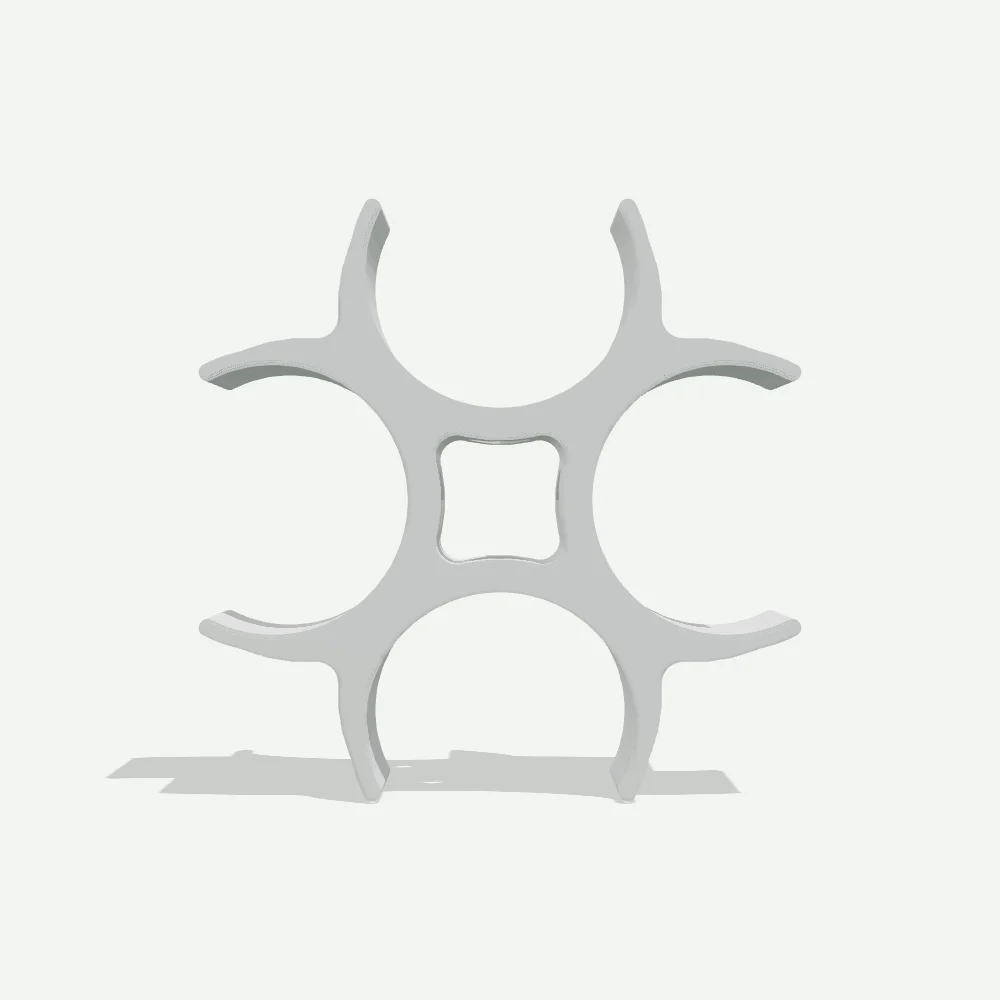
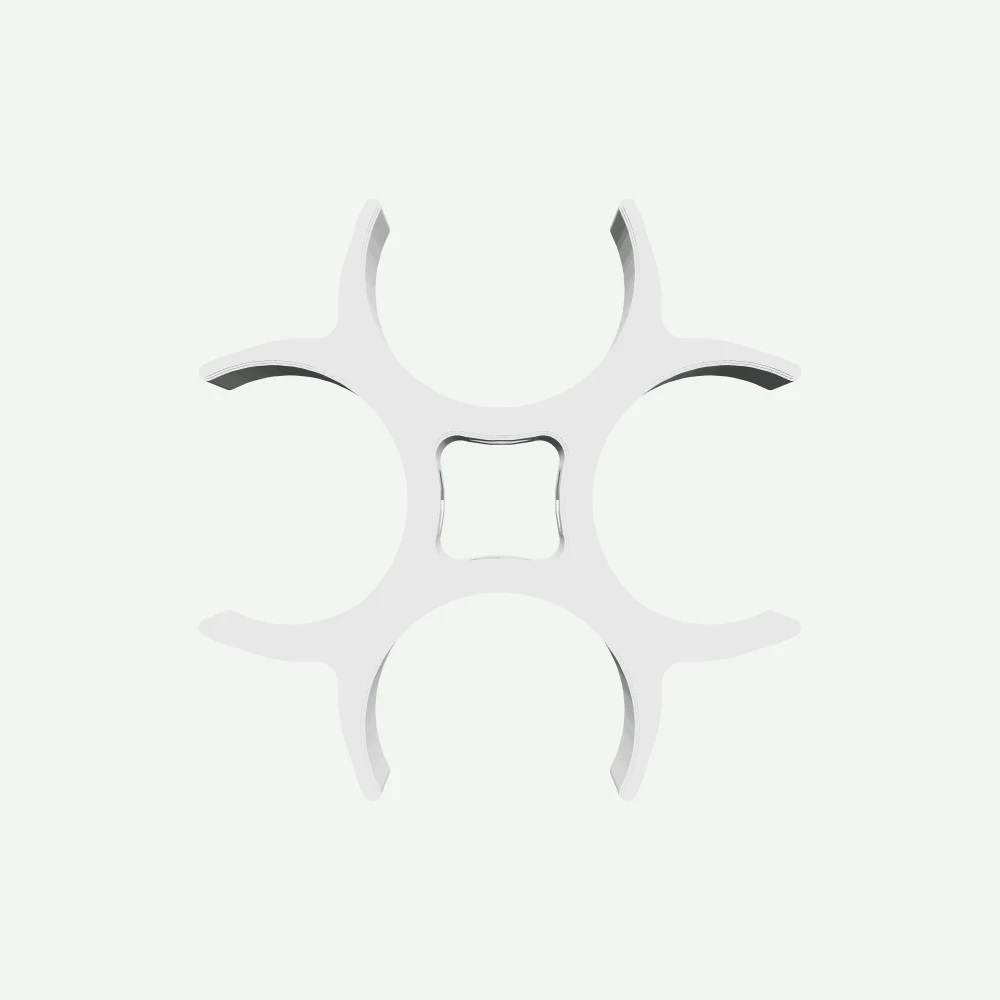
Shop: nye billeder af den nye benholder (slank, fjederhorn, kraftig hals, fastere greb). Alle renders er nu uden skygge, med studielys og kantudglatning. Forsidebilledet viser de tre farver i en tydelig trekant, hvor de to forreste dækker lidt for den bagerste. Clips er renderet om i samme stil, og 

Changed region(s): [[0.124, 0.186, 0.806, 0.806]]

diff --git a/shop/index.html b/shop/index.html
@@ -38,7 +38,7 @@
           <a class="knap sekundaer" href="#saadan">Sådan virker det</a>
         </div>
       </div>
-      <img class="helt-billede" src="/shop/billeder/forside.webp?v=2" alt="Benholderen i sort, hvid og grå" width="1600" height="1100" fetchpriority="high">
+      <img class="helt-billede" src="/shop/billeder/forside.webp?v=3" alt="Benholderen i sort, hvid og grå" width="1600" height="1100" fetchpriority="high">
     </div>
   </section>
 

diff --git a/shop/DESIGN.md b/shop/DESIGN.md
@@ -130,7 +130,7 @@ Shoppen spiller den moderne Shopify-kanon lige ud: hvid side, produkterne på ly
 
 Tætheden er rolig: store sektioner med god luft, én kolonne indhold på tekstsider, to kolonner på forside, produktside og kurv, der falder til én kolonne på tablet og telefon. Der er ét lyst tema og ingen mørk tilstand, fordi produktbillederne er renderet direkte på billedfladens farve og skal smelte sammen med den.
 
-Billederne er 3D-gengivelser (three.js) af JFC Labs' egne STL-filer, renderet på billedfladen (#f2f4f1) med en blød kontaktskygge, så produkt og flade er ét. Hvert billede har en `.json`-fil ved siden af med oprindelsen, og handelsbetingelserne oplyser, at billederne er 3D-gengivelser.
+Billederne er 3D-gengivelser (three.js) af JFC Labs' egne STL-filer, renderet på billedfladen (#f2f4f1) uden skygge og med studielys, så produktet står rent på fladen. Hvert billede har en `.json`-fil ved siden af med oprindelsen, og handelsbetingelserne oplyser, at billederne er 3D-gengivelser.
 
 **Key Characteristics:**
 - Hvid side, grågrønne billedflader og paneler, sort-grøn tekst.
@@ -203,7 +203,7 @@ Skriften ligger selv på `/shop/fonts/` og preloades; Google Fonts bruges ikke, 
 
 ## Elevation & Depth
 
-Systemet er fladt. Dybde vises med flade-farven mod hvidt og med 1 px linjer. De eneste skygger er indvendige 1 px ringe (farveprøver, valgt miniature) og ringen om den valgte farveprøve; de er kanter, ikke løft. Produktrenderne har deres egen bløde kontaktskygge i billedet.
+Systemet er fladt. Dybde vises med flade-farven mod hvidt og med 1 px linjer. De eneste skygger er indvendige 1 px ringe (farveprøver, valgt miniature) og ringen om den valgte farveprøve; de er kanter, ikke løft. Produktrenderne har heller ingen skygge.
 
 ### Shadow Vocabulary
 - **Prøvekant** (`box-shadow: inset 0 0 0 1px var(--kant)`): omkreds på farveprøver, så hvid kan ses på hvidt.
@@ -267,7 +267,7 @@ Flade-baggrund, fire kolonner (ordmærke + én sætning / Shop / Information / K
 ## Do's and Don'ts
 
 ### Do:
-- **Do** læg hvert produktbillede på flade-farven (#f2f4f1) og rendér nye billeder på præcis den baggrund med blød kontaktskygge.
+- **Do** læg hvert produktbillede på flade-farven (#f2f4f1) og rendér nye billeder på præcis den baggrund uden skygge.
 - **Do** gem oprindelsen ved siden af hvert billede (`<navn>.webp.json`) og hold oplysningen om 3D-gengivelser i handelsbetingelserne, så længe billederne er renders.
 - **Do** brug pillen til alt, man trykker på, og kontrastkanten på alt, der skal kunne ses som en kontrol.
 - **Do** tegn ikoner som inline-SVG i én stregtykkelse (1.75 ved 20-24 px, 2 ved 14-16 px) med `currentColor`.
